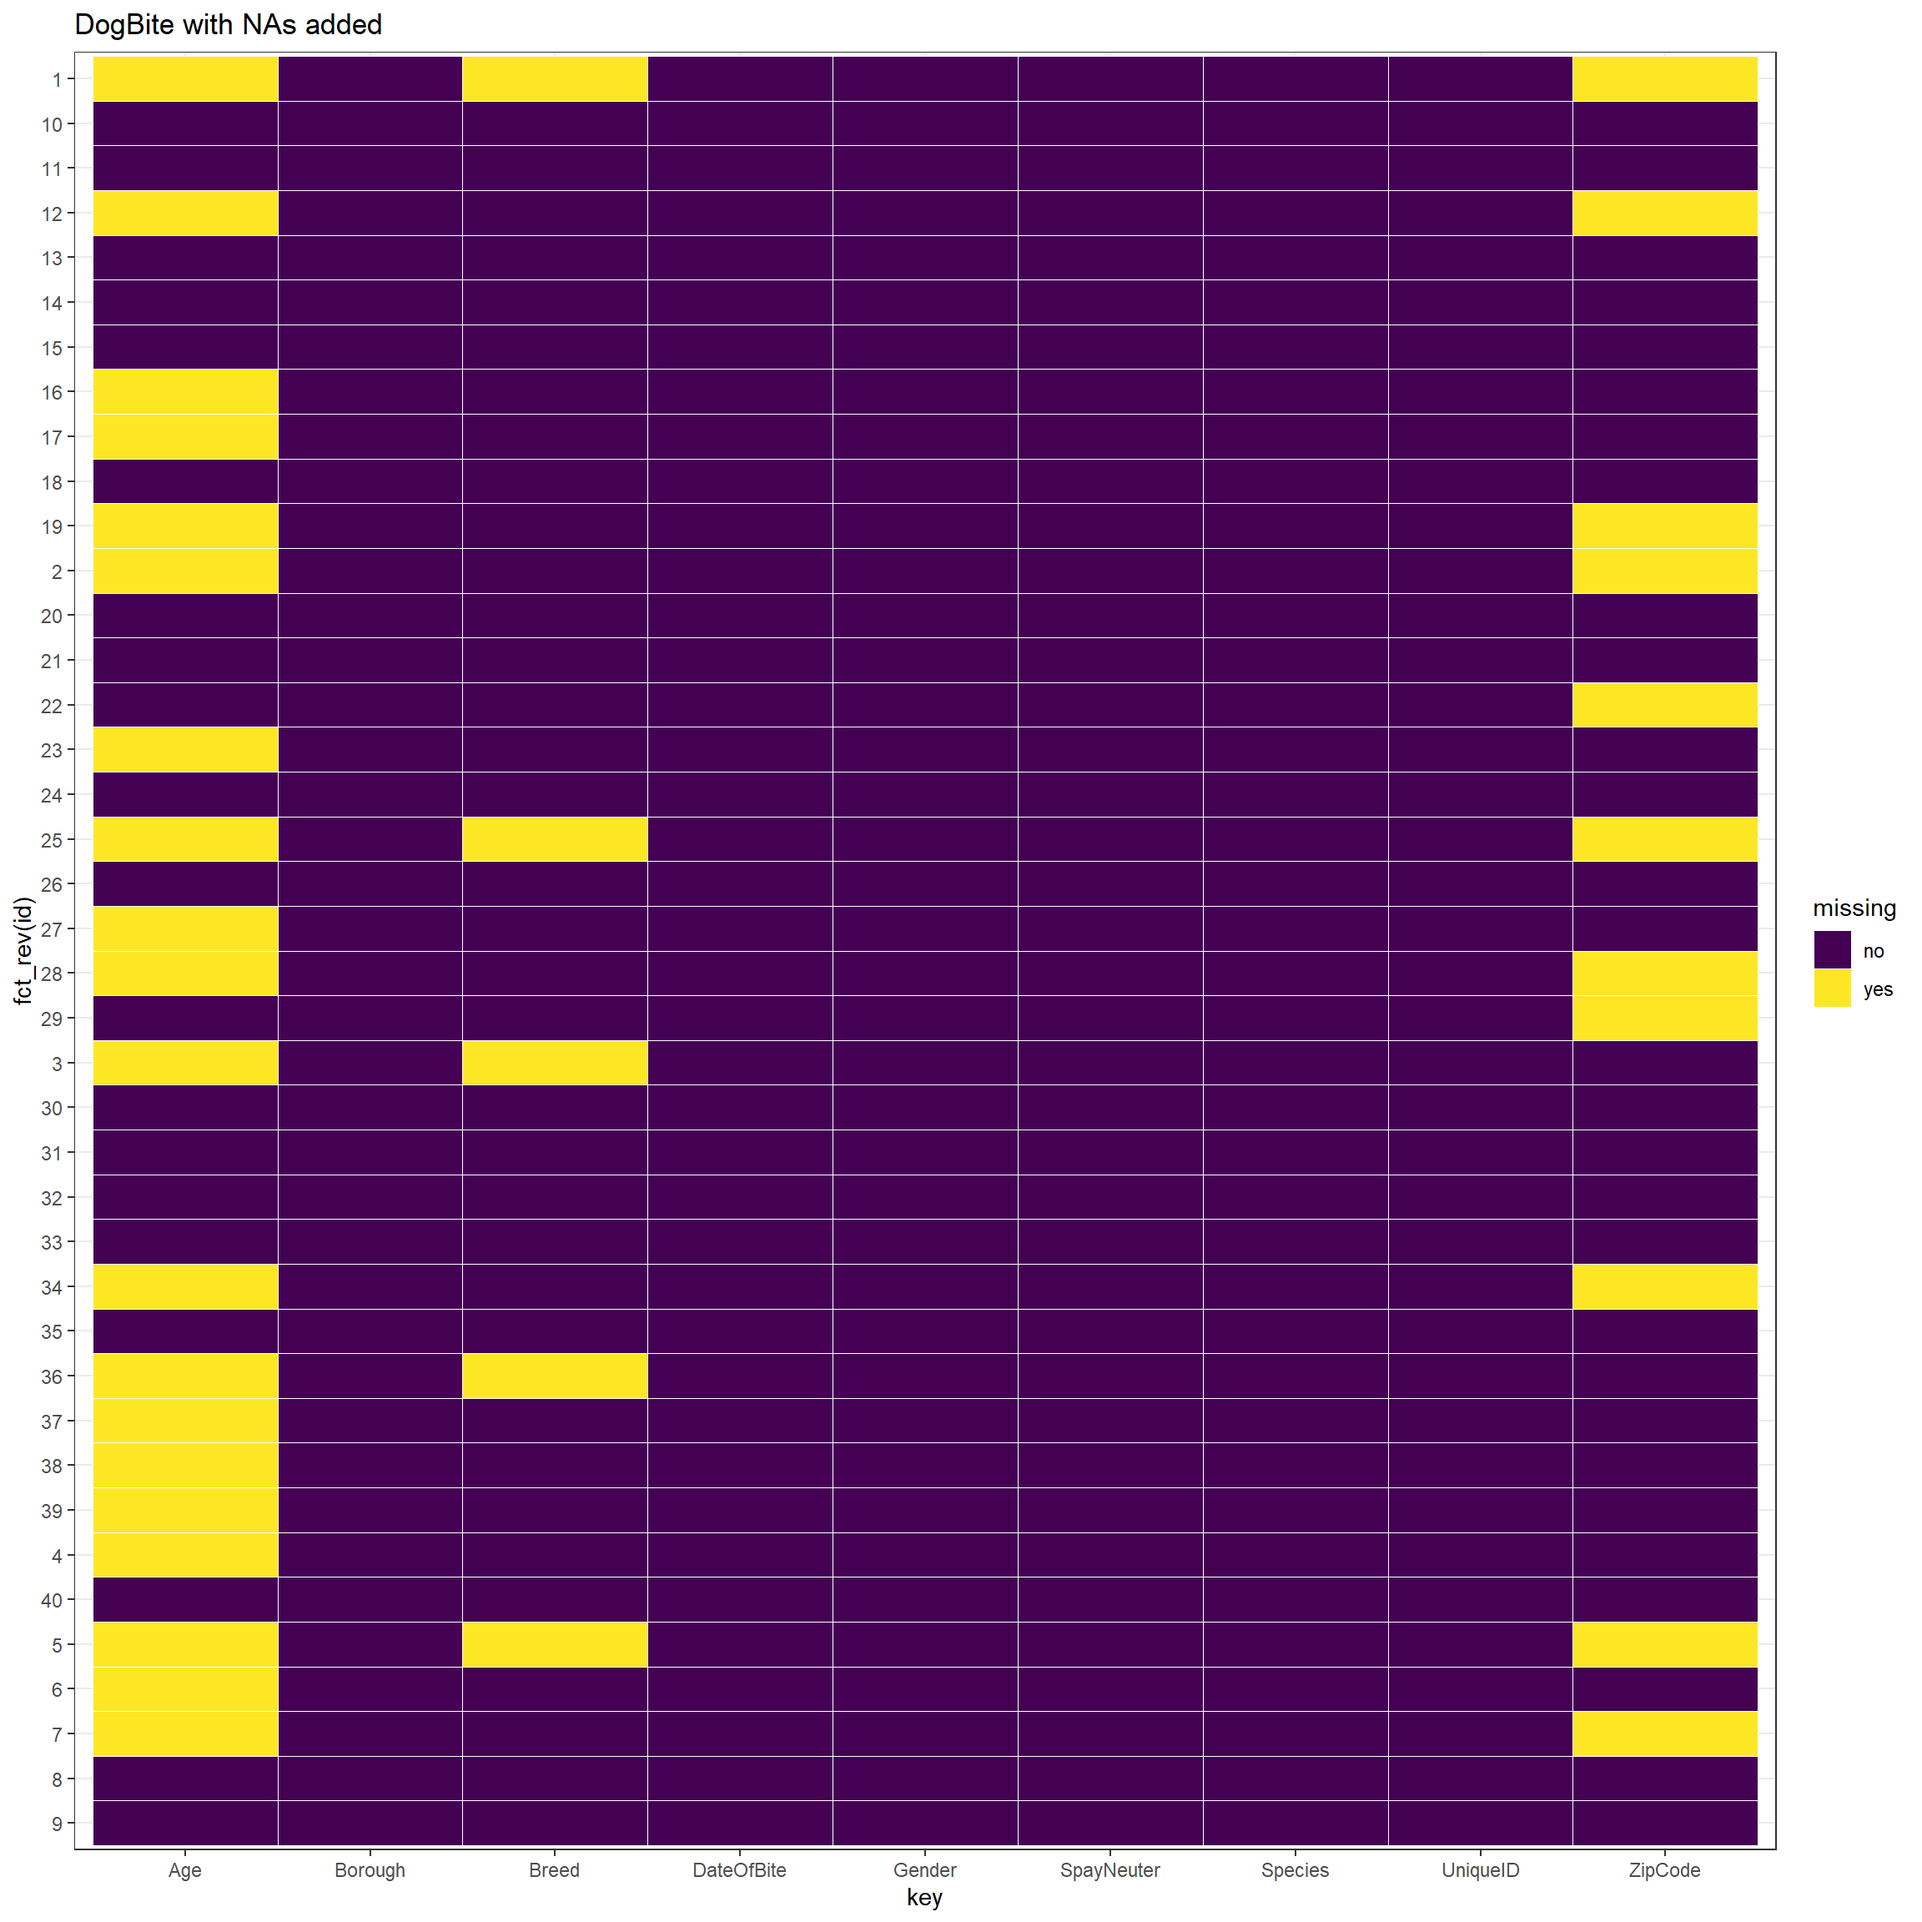
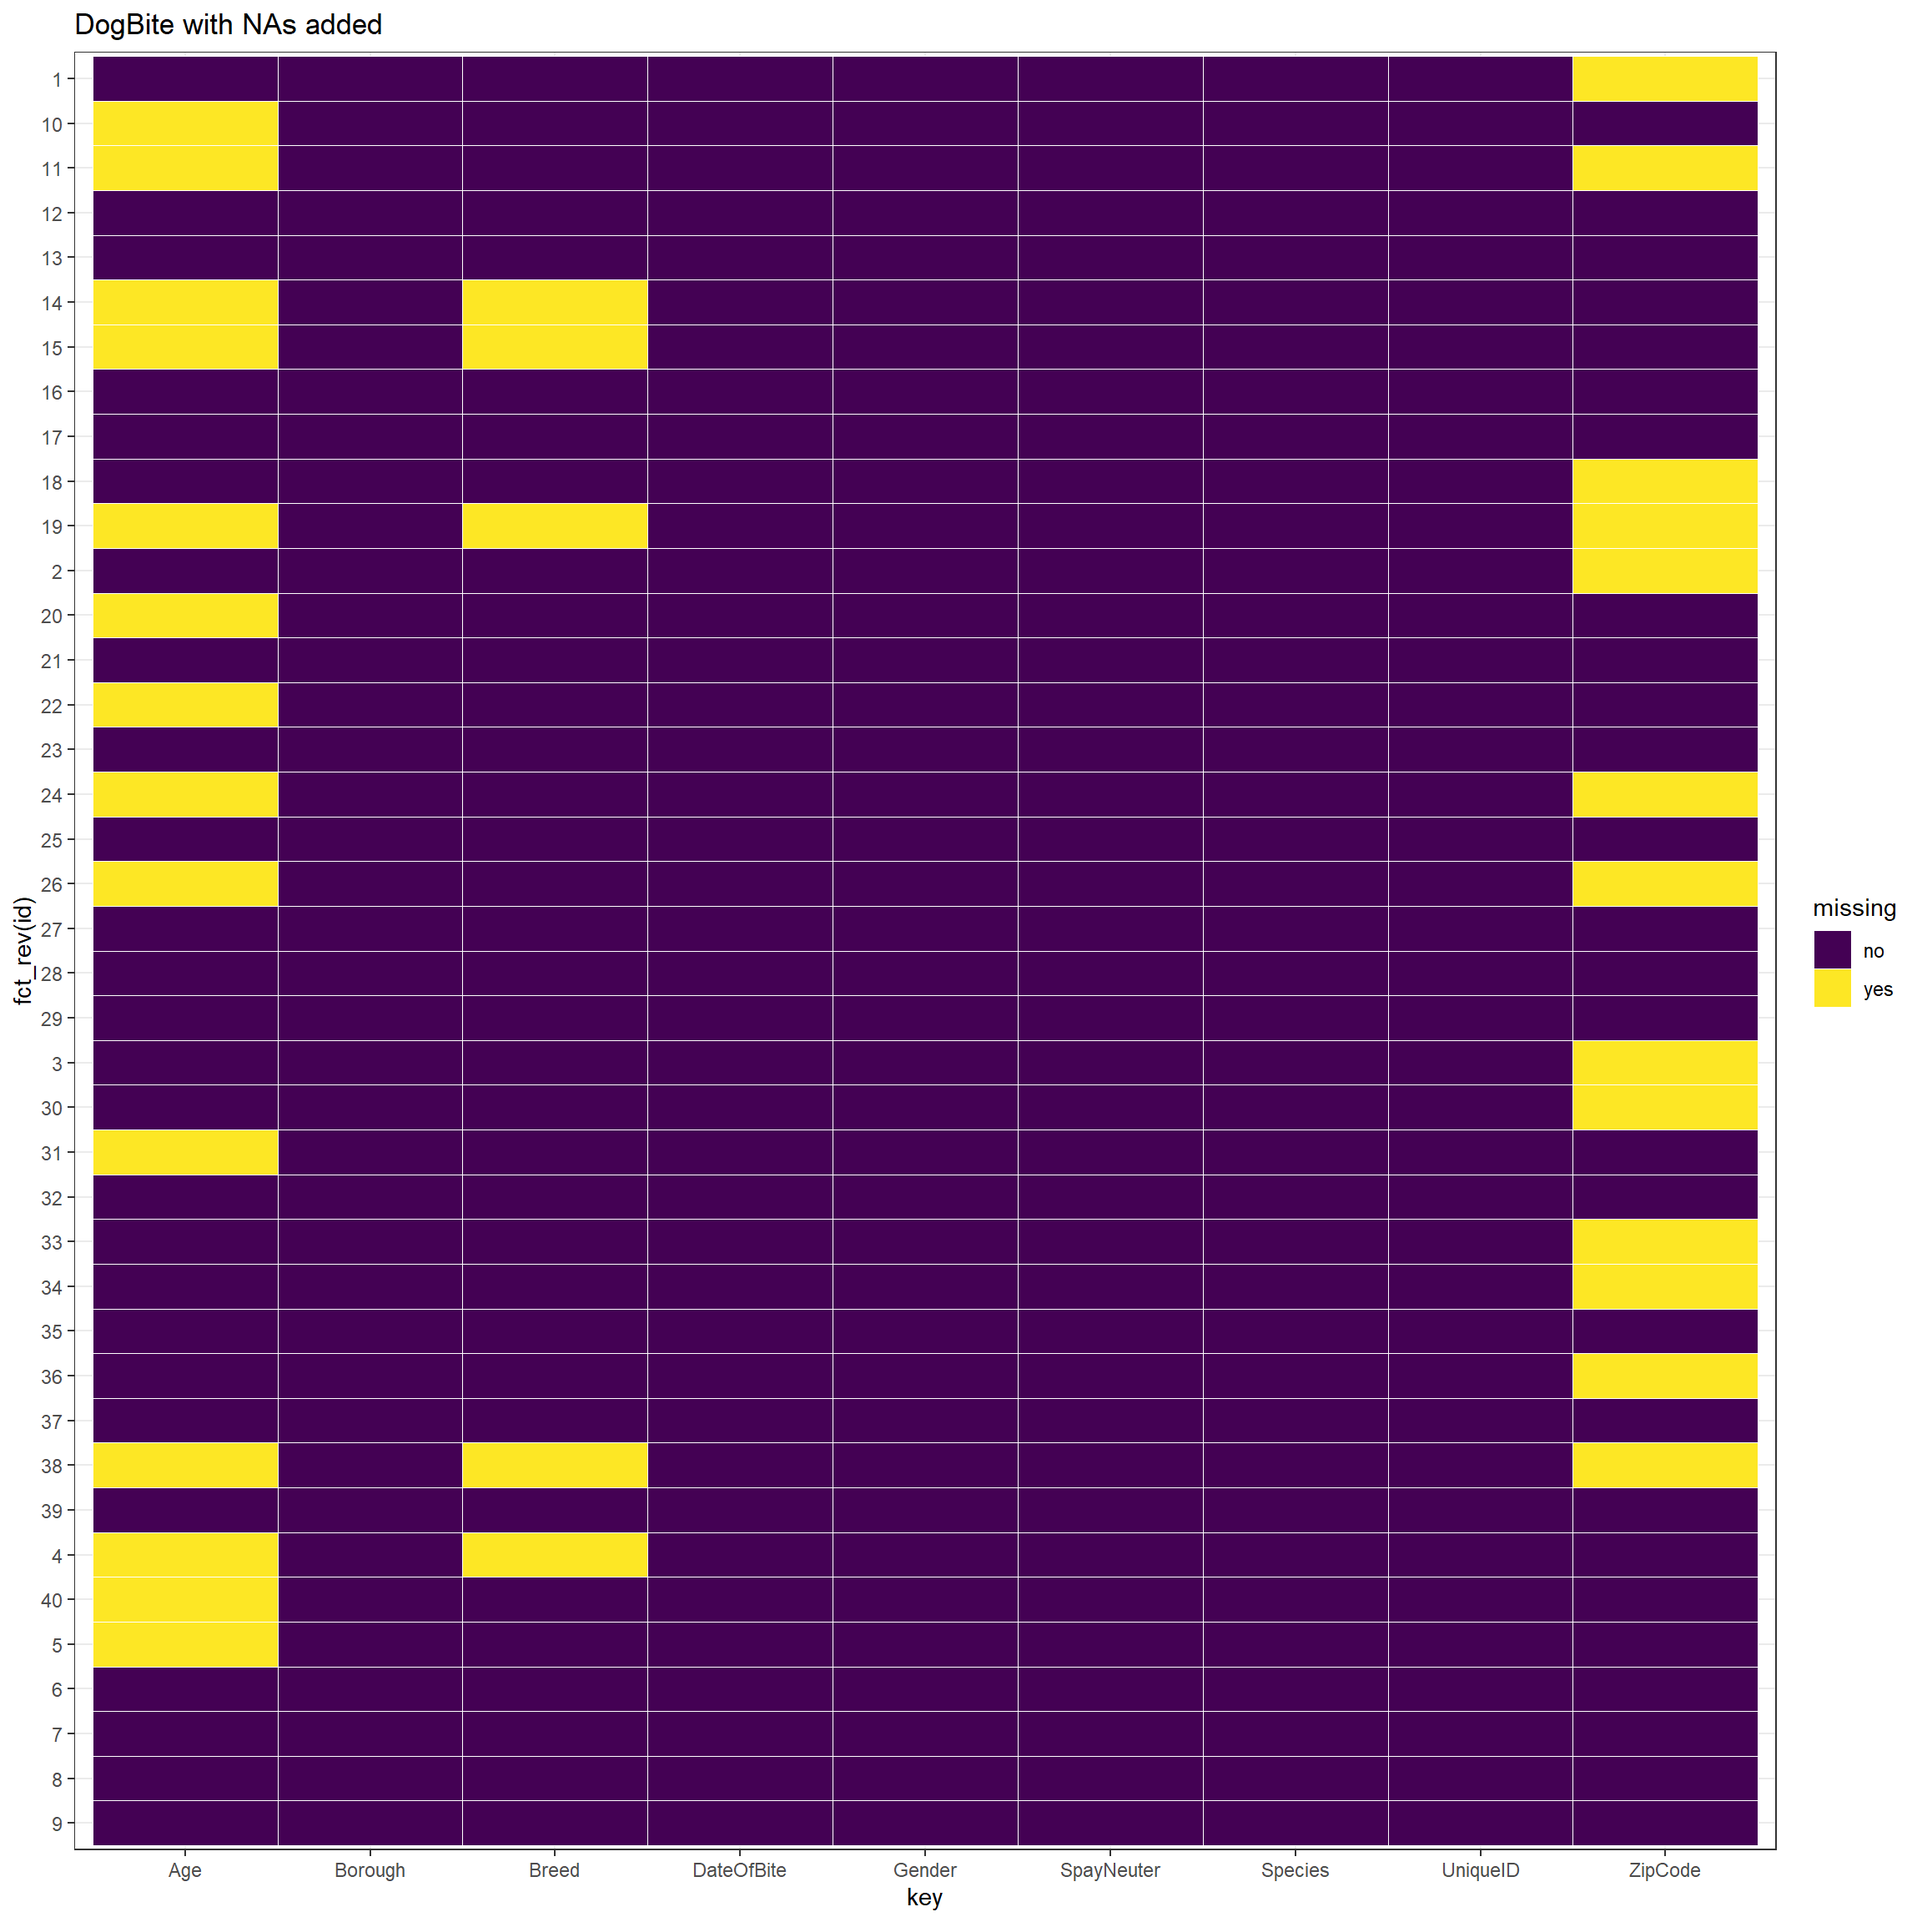
commit

diff --git a/docs/missing-values.html b/docs/missing-values.html
@@ -155,7 +155,7 @@
 <div id="missing-values-by-row" class="section level2" number="4.3">
 <h2><span class="header-section-number">4.3</span> Missing values by row</h2>
 <p>Since we have 10280 rows, it is not clear if we continue analyzing with all of the data. Our data only contains one file, thus we randomly select 40 rows for analysis.</p>
-<pre><code>##  [1] 3 3 3 2 2 2 2 2 2 2 2 1 1 1 1 1 1 1 1 1 1 1 0 0 0 0 0 0 0 0
+<pre><code>##  [1] 3 3 2 2 2 2 2 2 1 1 1 1 1 1 1 1 1 1 1 1 1 1 0 0 0 0 0 0 0 0
 ## [31] 0 0 0 0 0 0 0 0 0 0</code></pre>
 <p>Then we show missing values by row from large to small. We found that rows with the most missing values miss 3 values (i.e, “Age”, “ZipCode”, and “Breed”), while rows with the least missing values miss 0 value. There are only a small part of events in which all three values are missing.</p>
 </div>
@@ -183,30 +183,30 @@
 <pre><code>## [1] &quot;missing_data.frame&quot;
 ## attr(,&quot;package&quot;)
 ## [1] &quot;mi&quot;</code></pre>
-<pre><code>##  [1] Breed, Age, ZipCode Age, ZipCode        Breed, Age         
-##  [4] Age                 Breed, Age, ZipCode Age                
-##  [7] Age, ZipCode        nothing             nothing            
-## [10] nothing             nothing             Age, ZipCode       
-## [13] nothing             nothing             nothing            
-## [16] Age                 Age                 nothing            
-## [19] Age, ZipCode        nothing             nothing            
-## [22] ZipCode             Age                 nothing            
-## [25] Breed, Age, ZipCode nothing             Age                
-## [28] Age, ZipCode        ZipCode             nothing            
-## [31] nothing             nothing             nothing            
-## [34] Age, ZipCode        nothing             Breed, Age         
-## [37] Age                 Age                 Age                
-## [40] nothing            
-## 6 Levels: nothing Age ZipCode Age, ZipCode ... Breed, Age, ZipCode</code></pre>
+<pre><code>##  [1] ZipCode             ZipCode             ZipCode            
+##  [4] Breed, Age          Age                 nothing            
+##  [7] nothing             nothing             nothing            
+## [10] Age                 Age, ZipCode        nothing            
+## [13] nothing             Breed, Age          Breed, Age         
+## [16] nothing             nothing             ZipCode            
+## [19] Breed, Age, ZipCode Age                 nothing            
+## [22] Age                 nothing             Age, ZipCode       
+## [25] nothing             Age, ZipCode        nothing            
+## [28] nothing             nothing             ZipCode            
+## [31] Age                 nothing             ZipCode            
+## [34] ZipCode             nothing             ZipCode            
+## [37] nothing             Breed, Age, ZipCode nothing            
+## [40] Age                
+## 6 Levels: nothing ZipCode Age Breed, Age ... Breed, Age, ZipCode</code></pre>
 <p>This part lists the situation of missing values of our 40 samples. Each one indicates the kinds of values that are missed in each sample.</p>
-<pre><code>## [1] &quot;nothing&quot;             &quot;Age&quot;                
-## [3] &quot;ZipCode&quot;             &quot;Age, ZipCode&quot;       
-## [5] &quot;Breed, Age&quot;          &quot;Breed, Age, ZipCode&quot;</code></pre>
+<pre><code>## [1] &quot;nothing&quot;             &quot;ZipCode&quot;            
+## [3] &quot;Age&quot;                 &quot;Breed, Age&quot;         
+## [5] &quot;Age, ZipCode&quot;        &quot;Breed, Age, ZipCode&quot;</code></pre>
 <p>This part lists all of the patterns above.</p>
-<pre><code>##             nothing                 Age             ZipCode 
-##                  18                   9                   2 
-##        Age, ZipCode          Breed, Age Breed, Age, ZipCode 
-##                   6                   2                   3</code></pre>
+<pre><code>##             nothing             ZipCode                 Age 
+##                  18                   8                   6 
+##          Breed, Age        Age, ZipCode Breed, Age, ZipCode 
+##                   3                   3                   2</code></pre>
 <p>This part shows the specific counts of patterns above.</p>
 <p>Then, we aim to create a missing values plot in the style of extracat::visna() (no longer available on CRAN) using ggplot2. First, we create the function for creating missing plots.</p>
 <p>Then we use the function to draw the plot. Note that we use the entire dataset instead of our 40 samples in this part for better discussion.</p>
